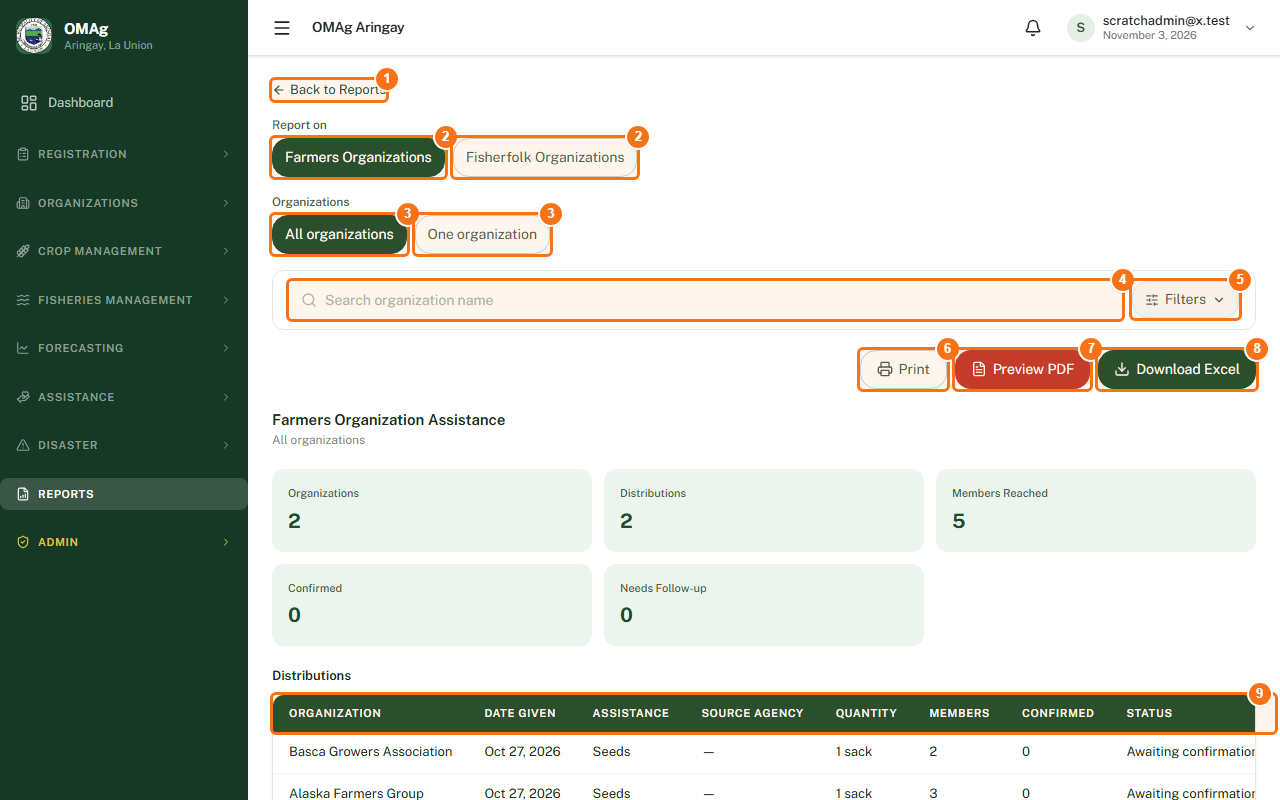
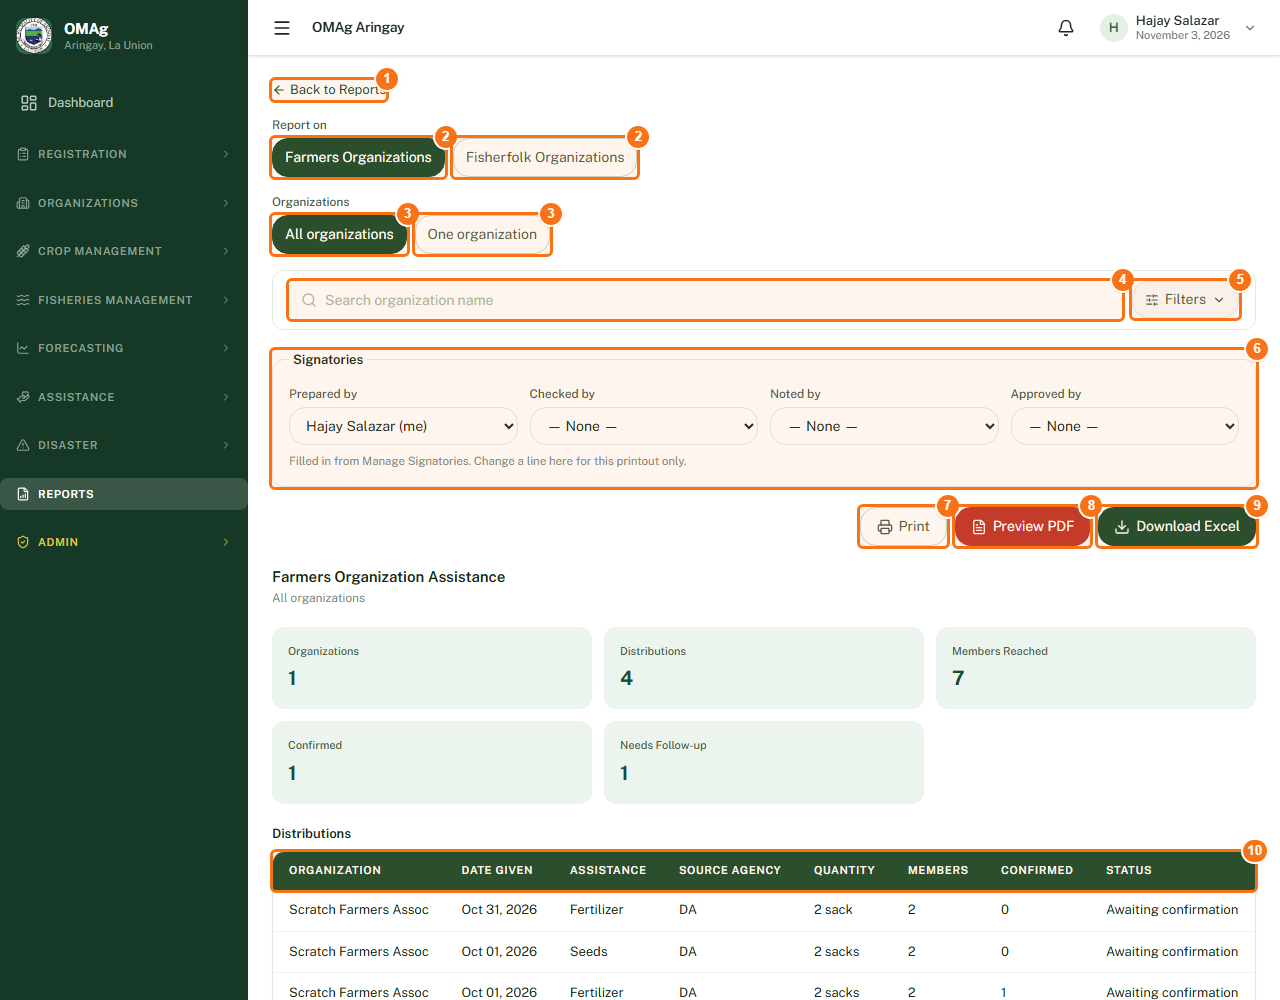
Manual and Help: report signatories

diff --git a/oma-frontend/src/pages/Manual/manualScreens.js b/oma-frontend/src/pages/Manual/manualScreens.js
@@ -2961,7 +2961,7 @@ export default {
   "purpose": "Registration records, ready to print.",
   "image": "/manual/admin/report-registered.png",
   "width": 1280,
-  "height": 800,
+  "height": 1000,
   "legend": [
    {
     "n": 1,
@@ -2990,21 +2990,26 @@ export default {
    },
    {
     "n": 6,
+    "label": "Signatories",
+    "desc": "Who signs the report: Prepared by (you, to start with), Checked by, Noted by and Approved by. Choose a name from each list, or leave it on None. The names print at the foot of Print and Preview PDF (Download Excel has no signature lines). The choice is for this printout only; the Admin keeps the names under Admin > Signatories."
+   },
+   {
+    "n": 7,
     "label": "Print",
     "desc": "Opens the report as the same PDF as the preview, ready to print."
    },
    {
-    "n": 7,
+    "n": 8,
     "label": "Preview PDF",
     "desc": "Shows the report as a PDF to read on screen. The document is titled with the period covered."
    },
    {
-    "n": 8,
+    "n": 9,
     "label": "Download Excel",
     "desc": "Saves the rows of the report as an Excel file."
    },
    {
-    "n": 9,
+    "n": 10,
     "label": "Preview table",
     "desc": "The registration records exactly as it will print, one row per record. It follows the filters."
    }
@@ -3030,21 +3035,26 @@ export default {
    },
    {
     "n": 3,
+    "label": "Signatories",
+    "desc": "Who signs the report: Prepared by (you, to start with), Checked by, Noted by and Approved by. Choose a name from each list, or leave it on None. The names print at the foot of Print and Preview PDF (Download Excel has no signature lines). The choice is for this printout only; the Admin keeps the names under Admin > Signatories."
+   },
+   {
+    "n": 4,
     "label": "Print",
     "desc": "Opens the report as the same PDF as the preview, ready to print."
    },
    {
-    "n": 4,
+    "n": 5,
     "label": "Preview PDF",
     "desc": "Shows the report as a PDF to read on screen. The document is titled with the period covered."
    },
    {
-    "n": 5,
+    "n": 6,
     "label": "Download Excel",
     "desc": "Saves the rows of the report as an Excel file."
    },
    {
-    "n": 6,
+    "n": 7,
     "label": "Columns",
     "desc": "Barangay, farmer, organization, crop, area planted and area harvested (ha), the estimated and actual harvest dates, and the estimated yield and actual yield (kg)."
    }
@@ -3070,21 +3080,26 @@ export default {
    },
    {
     "n": 3,
+    "label": "Signatories",
+    "desc": "Who signs the report: Prepared by (you, to start with), Checked by, Noted by and Approved by. Choose a name from each list, or leave it on None. The names print at the foot of Print and Preview PDF (Download Excel has no signature lines). The choice is for this printout only; the Admin keeps the names under Admin > Signatories."
+   },
+   {
+    "n": 4,
     "label": "Print",
     "desc": "Opens the report as the same PDF as the preview, ready to print."
    },
    {
-    "n": 4,
+    "n": 5,
     "label": "Preview PDF",
     "desc": "Shows the report as a PDF to read on screen. The document is titled with the period covered."
    },
    {
-    "n": 5,
+    "n": 6,
     "label": "Download Excel",
     "desc": "Saves the rows of the report as an Excel file."
    },
    {
-    "n": 6,
+    "n": 7,
     "label": "Columns",
     "desc": "Barangay, fisherfolk, organization, species, culture type, date stocked, harvest date, quantity (kg) and whether it is the final harvest of the cycle."
    }
@@ -3115,21 +3130,26 @@ export default {
    },
    {
     "n": 4,
+    "label": "Signatories",
+    "desc": "Who signs the report: Prepared by (you, to start with), Checked by, Noted by and Approved by. Choose a name from each list, or leave it on None. The names print at the foot of Print and Preview PDF (Download Excel has no signature lines). The choice is for this printout only; the Admin keeps the names under Admin > Signatories."
+   },
+   {
+    "n": 5,
     "label": "Print",
     "desc": "Opens the report as the same PDF as the preview, ready to print."
    },
    {
-    "n": 5,
+    "n": 6,
     "label": "Preview PDF",
     "desc": "Shows the report as a PDF to read on screen. The document is titled with the period covered."
    },
    {
-    "n": 6,
+    "n": 7,
     "label": "Download Excel",
     "desc": "Saves the rows of the report as an Excel file."
    },
    {
-    "n": 7,
+    "n": 8,
     "label": "Columns",
     "desc": "Reference number, fisherfolk, barangay, stock or cycle, disaster type, date of occurrence, volume lost (kg), total loss, status and the date logged."
    }
@@ -3141,7 +3161,7 @@ export default {
   "purpose": "The assistance organizations gave to their members.",
   "image": "/manual/admin/report-org-assistance.png",
   "width": 1280,
-  "height": 800,
+  "height": 1000,
   "legend": [
    {
     "n": 1,
@@ -3170,21 +3190,26 @@ export default {
    },
    {
     "n": 6,
+    "label": "Signatories",
+    "desc": "Who signs the report: Prepared by (you, to start with), Checked by, Noted by and Approved by. Choose a name from each list, or leave it on None. The names print at the foot of Print and Preview PDF (Download Excel has no signature lines). The choice is for this printout only; the Admin keeps the names under Admin > Signatories."
+   },
+   {
+    "n": 7,
     "label": "Print",
     "desc": "Opens the report as the same PDF as the preview, ready to print."
    },
    {
-    "n": 7,
+    "n": 8,
     "label": "Preview PDF",
     "desc": "Shows the report as a PDF to read on screen. The document is titled with the period covered."
    },
    {
-    "n": 8,
+    "n": 9,
     "label": "Download Excel",
     "desc": "Saves the rows of the report as an Excel file."
    },
    {
-    "n": 9,
+    "n": 10,
     "label": "Columns",
     "desc": "Organization, date given, assistance, source agency, quantity, how many members received it, how many confirmed, and the status."
    }
@@ -5163,6 +5188,31 @@ export default {
     "n": 4,
     "label": "Columns",
     "desc": "Who borrowed it, the equipment, how many units, when it went out and when it came back, and the condition the units came back in (Returned late if it came back after its return-by date)."
+   }
+  ]
+ },
+ "admin-signatories": {
+  "audience": "admin",
+  "title": "Admin > Signatories",
+  "purpose": "The names that can sign the reports.",
+  "image": "/manual/admin/signatories.png",
+  "width": 1280,
+  "height": 800,
+  "legend": [
+   {
+    "n": 1,
+    "label": "Add Signatory",
+    "desc": "Adds a name: the name, the position printed under it, the signing role (Prepared by, Checked by, Noted by or Approved by), the order and whether it is Active. A person who signs in two roles is added twice."
+   },
+   {
+    "n": 2,
+    "label": "Columns",
+    "desc": "Name, position, signing role, order and whether the name is Active. The order sorts the names inside their role. A name that is not Active is no longer offered in the Reports pages."
+   },
+   {
+    "n": 3,
+    "label": "Row menu",
+    "desc": "Edit and Delete for the name. Delete does not change reports that were already printed."
    }
   ]
  }

diff --git a/oma-frontend/src/pages/Manual/manualContent.js b/oma-frontend/src/pages/Manual/manualContent.js
@@ -172,12 +172,13 @@ const STAFF_GUIDES = (focal) => [
   {
     id: 'reports',
     title: 'Reports',
-    intro: 'Reports has the official reports. Open one, set its filters, then Preview PDF, Print or Download Excel.',
+    intro: 'Reports has the official reports. Open one, set its filters, choose who signs it, then Preview PDF, Print or Download Excel.',
     screens: ['admin-reports', 'admin-report-registered', 'admin-report-crop', 'admin-report-fisheries-production', 'admin-report-fisheries-disaster', 'admin-report-org-assistance'],
     steps: [
       'Open Reports and choose a report: Registered Farmers, Fisherfolk & Organizations; Crop Records Harvested; Fisheries Production Harvested; Fisheries Disaster Reports; Crop / Parcel Disaster Reports; Organization Assistance.',
       'Set what to report and the filters (barangay, dates, crop or species and so on). The registered and the assistance reports can cover all records or one person or organization, which you search for.',
-      'Preview PDF shows the report as a PDF to read; Print gives the same PDF ready to print; Download Excel saves its rows as a spreadsheet.',
+      'In the Signatories block above the buttons, choose Prepared by (your own name to start with), Checked by, Noted by and Approved by from their lists, or leave one on None. Their names print at the foot of the report. The choice is for this printout only; the lists come from Admin > Signatories.',
+      'Preview PDF shows the report as a PDF to read; Print gives the same PDF ready to print; Download Excel saves its rows as a spreadsheet, without signature lines.',
       'On the farmers, fisherfolk, organizations, crop and fisheries tables, set the filters first: Print Report and Download Report give exactly the rows the table shows.',
     ],
   },
@@ -197,14 +198,15 @@ const STAFF_GUIDES = (focal) => [
   },
   {
     id: 'users',
-    title: 'User accounts, Activity Log and Backup (Admin)',
+    title: 'User accounts, Activity Log, Signatories and Backup (Admin)',
     adminOnly: true,
-    intro: 'User Management creates and controls the accounts. The Activity Log shows who changed what. Backup keeps a copy of the whole system.',
-    screens: ['admin-users', 'admin-audit-log', 'admin-audit-log-filters', 'admin-backup'],
+    intro: 'User Management creates and controls the accounts. The Activity Log shows who changed what. Signatories keeps the names that sign the reports. Backup keeps a copy of the whole system.',
+    screens: ['admin-users', 'admin-audit-log', 'admin-audit-log-filters', 'admin-signatories', 'admin-backup'],
     steps: [
       'Open Admin > User Management. The buttons at the top choose the kind of account: Staff, Fisherfolk, Farmers or Organizations. Search, or open Filters.',
       'Create User opens Add New User: choose the role, then Next. The Actions menu of an account has Edit user and Resend verification email.',
       'Open the Activity Log from the account menu. Filters has the model, the action (Create, Update or Delete) and the date range. Each row says who changed what and when.',
+      'Open Admin > Signatories to keep the names that sign the reports. Add Signatory takes the name, the position printed under it, the signing role (Prepared by, Checked by, Noted by or Approved by) and the order; turn off Active to stop offering a name. The Reports pages offer these names in their Signatories block.',
       'Open Admin > Backup and press Back up now to make one file with every record and uploaded file. It runs in the background and the list updates by itself; the system also makes one every night.',
       'When a backup says Done, press Download and keep the file somewhere safe: it holds personal records and is not encrypted. The latest 14 backups are kept. Delete removes one.',
     ],

diff --git a/oma-frontend/src/pages/Help/helpContent.js b/oma-frontend/src/pages/Help/helpContent.js
@@ -34,7 +34,7 @@ export const STEPS = [
   },
   {
     title: 'Generate reports',
-    desc: 'Reports lets you preview a report as a PDF, then download or print it.',
+    desc: 'Reports lets you preview a report as a PDF, then download or print it. Pick who signs it in the Signatories block above the buttons.',
   },
 ]
 
@@ -199,6 +199,10 @@ export const SECTIONS = [
         a: 'Open Reports, choose the report and its period, and use Preview PDF. Print gives the same PDF as the preview, and Download saves it.',
       },
       {
+        q: 'How do I choose who signs a report?',
+        a: 'Above the Print, Preview PDF and Download Excel buttons, the Signatories block has four lists: Prepared by (your own name to start with), Checked by, Noted by and Approved by. Choose a name from each list, or leave it on None. The names are printed under their lines at the foot of Print and Preview PDF; Download Excel has no signature lines. What you choose is for that printout only, so choose again the next time. The names come from the list the Admin keeps.',
+      },
+      {
         q: 'How do I force harvest crops before a typhoon?',
         a: 'From Crop Monitoring, open the menu of one of the crops and choose Force Harvest. The window lists the crops of that farmer that are not ready yet, on every parcel, with the crop you chose already ticked. Choose the harvested date and the reason, tick the crops, type the area of each one and its quantity in the Qty / Unit box, picking the unit it was counted in (kg, sacks, cavan or whatever that crop allows; the kg it comes to shows under it), then press Review Force Harvest, check the tables and press Confirm Force Harvest. On Crop Records the menu of a parcel does the same for that parcel only. The red FORCED HARVEST label on a harvested crop opens the saved details.',
       },
@@ -233,7 +237,7 @@ export const SECTIONS = [
       },
       {
         q: 'What can a Focal Person do compared with an Admin?',
-        a: 'Both register and manage farmers, fisherfolk, organizations, crop records, monitoring, disasters, assistance and reports. Only an Admin manages the lists under Admin (Crop Settings, Fisheries Settings, Activity Settings, Assistance Settings, Classification Settings, Harvest Unit Settings), User Management and the audit log, and only an Admin deletes crop records.',
+        a: 'Both register and manage farmers, fisherfolk, organizations, crop records, monitoring, disasters, assistance and reports. Only an Admin manages the lists under Admin (Crop Settings, Fisheries Settings, Activity Settings, Assistance Settings, Classification Settings, Harvest Unit Settings), Signatories, User Management and the audit log, and only an Admin deletes crop records.',
       },
       {
         q: 'Where do I add a crop or change its growth duration?',
@@ -243,6 +247,11 @@ export const SECTIONS = [
       {
         q: 'How do I add a seed source?',
         a: 'Admin > Crop Settings > Seed Sources tab. Press Add Seed Source under the table, type the name in the new row and press Save (or Enter). Use the row\'s menu to rename or delete one.',
+        roles: ADMIN,
+      },
+      {
+        q: 'Where do I keep the names that sign the reports?',
+        a: 'Admin > Signatories. Press Add Signatory and give the name, the position that is printed under it, the signing role (Prepared by, Checked by, Noted by or Approved by) and the order. A person who signs in two roles is added twice. Turn off Active to stop offering a name without deleting it. The Reports pages offer these names in their Signatories block.',
         roles: ADMIN,
       },
       {
